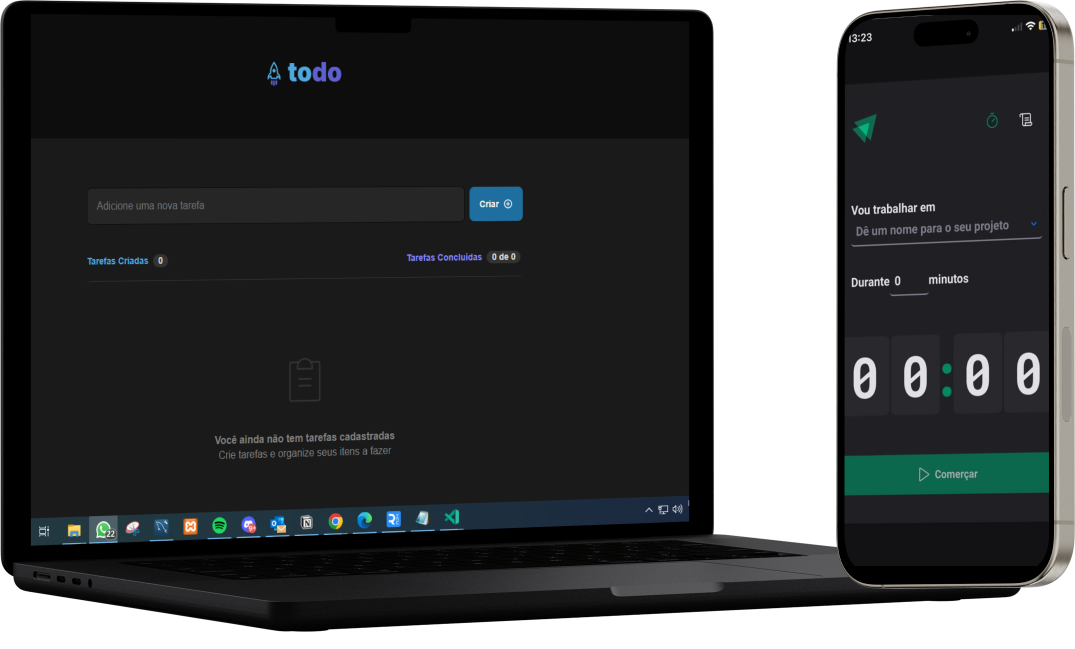
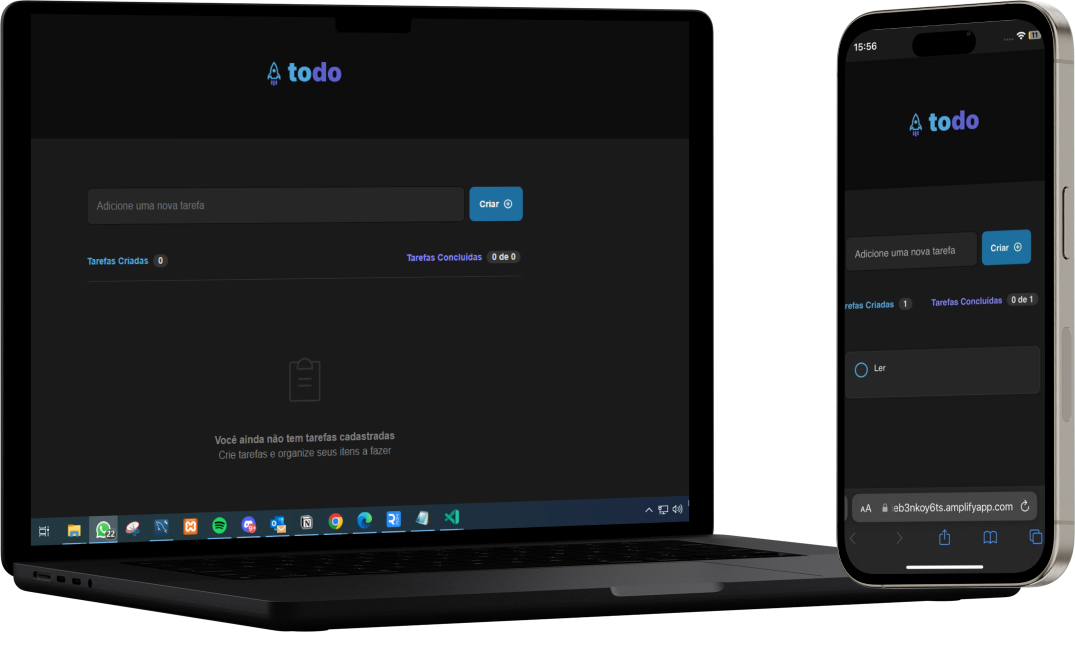
insert project To-Do

Changed region(s): [[0.7674, 0.1233, 0.9823, 0.8937], [0.7981, 0.0308, 0.9823, 0.0924]]

diff --git a/src/components/projects/index.jsx b/src/components/projects/index.jsx
@@ -2,6 +2,7 @@ import { Container, LabelLinks, ProjectsContainer, ProjectsLabel, Title, Titles 
 
 import ProjectCoffee from "../../assets/image-projects/project-coffee.png"
 import ProjectTimer from "../../assets/image-projects/project-timer.png"
+import ProjectToDo from "../../assets/image-projects/project-Todo.png"
 
 import { IconGlobe } from "../../assets/icons/globe";
 import { IconGithubProjects } from "../../assets/icons/github-projects";
@@ -18,7 +19,7 @@ export function Projects(){
                 <ProjectsLabel>
                     <Title>Coffee Delivery</Title>
 
-                        <img src={ProjectCoffee} height="240"/>
+                        <img src={ProjectCoffee} height="220"/>
 
                         <LabelLinks>
                             <a href="https://master.d2qksk9lhdz8jx.amplifyapp.com/">
@@ -40,7 +41,7 @@ export function Projects(){
                 <ProjectsLabel>
                     <Title>Timer</Title>
 
-                    <img src={ProjectTimer} height="240"/>
+                    <img src={ProjectTimer} height="220"/>
 
                     <LabelLinks>
                         <a href="https://master.d6obzennd2jk9.amplifyapp.com/">
@@ -59,8 +60,25 @@ export function Projects(){
            
 
                 <ProjectsLabel>
-                    <Title>Ola</Title>
+                    <Title>To Do</Title>
+
+                    <img src={ProjectToDo} height="220"/>
+
+                    <LabelLinks>
+                        <a href="https://master.drieb3nkoy6ts.amplifyapp.com/">
+                            <IconGlobe />
+                            <span>Projeto publicado</span>
+                        </a>
+                    </LabelLinks>
+
+                    <LabelLinks>
+                        <a href="https://github.com/EliseuVicente/toDo-react">
+                            <IconGithubProjects />
+                            <span>Projeto Git Hub</span>
+                        </a>
+                    </LabelLinks>
                 </ProjectsLabel>
+
             </ProjectsContainer>
             
         </Container>

diff --git a/src/components/projects/style.js b/src/components/projects/style.js
@@ -46,7 +46,7 @@ export const ProjectsLabel = styled.div`
     background: #FAFAFA;
 
     img {
-        margin-left: 4rem;
+        margin-left: 5rem;
         margin-bottom: 2rem;
     }
 `
